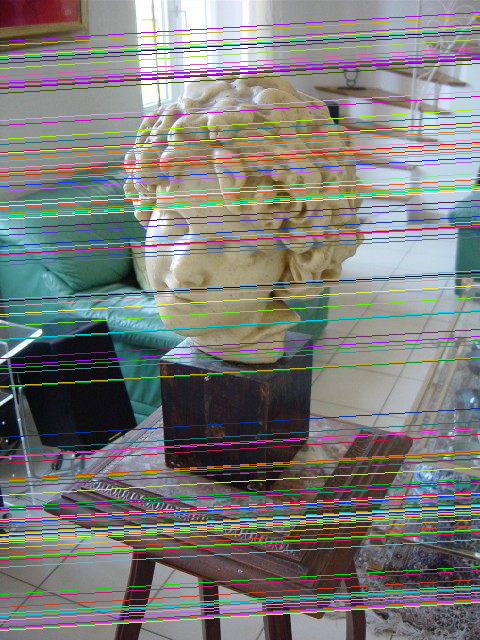
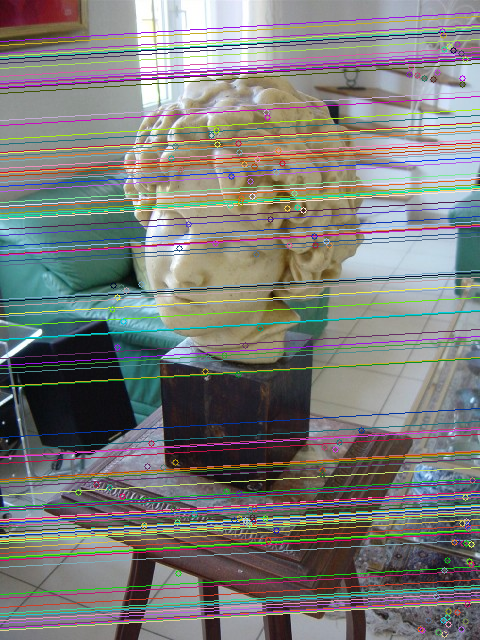
Stable (?)

diff --git a/Stereo Vision/StereoPair.cpp b/Stereo Vision/StereoPair.cpp
@@ -41,13 +41,13 @@ namespace sv {
         Mat status;
         mF = findFundamentalMat(l->matchedPoints(), r->matchedPoints(), cv::FM_RANSAC, 3, 0.99, status);
 
-        l->drawEpipolarLines(mF, palette);
+        l->drawEpipolarLines(mF, LEFT, palette);
         l->drawMatchedPoints(palette, l->epipolarImg());
         imwrite(resPath + "epi-L.png", l->epipolarImg());
 
-        r->drawEpipolarLines(mF, palette);
+        r->drawEpipolarLines(mF, RIGHT, palette);
         r->drawMatchedPoints(palette, r->epipolarImg());
-        imwrite(resPath + "epi-L.png", r->epipolarImg());
+        imwrite(resPath + "epi-R.png", r->epipolarImg());
 
 /*
         Mat E = r->intrinsicMat().t() * mFundamentalMat * l->intrinsicMat();
@@ -99,16 +99,16 @@ namespace sv {
             return pt;
         };
 
+
         Mat T1, T2;
         Size sizeL, sizeR;
-
 
         transformQuad(V, H1, T1, sizeL);
         transformQuad(V, H2, T2, sizeR);
 
         warpPerspective(l->epipolarImg(), l->rectifiedImg(), T1, sizeL);
         warpPerspective(r->epipolarImg(), r->rectifiedImg(), T2, sizeR);
-
+/*
         Point2f curPoint;
         for (int i = 0; i < l->matchedPoints().size(); ++i) {
             curPoint.x = 0, curPoint.y = l->matchedPoints()[i].y;
@@ -120,9 +120,9 @@ namespace sv {
             transformPoint(T2, r->matchedPoints()[i]);
             mSparseDisparity.push_back((l->matchedPoints()[i].x - offsetlX) - (r->matchedPoints()[i].x - offsetrX));
         }
-
-        l->drawMatchedPoints(palette, l->rectifiedImg());
-        r->drawMatchedPoints(palette, r->rectifiedImg());
+*/
+        //l->drawMatchedPoints(palette, l->rectifiedImg());
+        //r->drawMatchedPoints(palette, r->rectifiedImg());
 
         imwrite(resPath + "rectify-L.png", l->rectifiedImg());
         imwrite(resPath + "rectify-R.png", r->rectifiedImg());

diff --git a/Stereo Vision/StereoView.cpp b/Stereo Vision/StereoView.cpp
@@ -9,10 +9,10 @@ namespace sv {
     /* Can't convert from derived class to base class. */
     /* Have to explicitly copy contents */
     StereoView::StereoView(MonoView *monoView) {
-        monoView->img().copyTo(this->img());
-        monoView->img().copyTo(this->mEpiImg);
-        monoView->intrinsicMat().copyTo(this->intrinsicMat());
-        monoView->descriptor().copyTo(this->descriptor());
+        this->img() = monoView->img();
+        this->mEpiImg = monoView->img();
+        this->intrinsicMat() = monoView->intrinsicMat();
+        this->descriptor() = monoView->descriptor();
         this->featurePoints() = monoView->featurePoints();
     }
 
@@ -20,8 +20,8 @@ namespace sv {
         mMatchedPoints.push_back(featurePoints()[index].pt);
     }
 
-    void StereoView::drawEpipolarLines(cv::Mat &F, std::vector<cv::Scalar>& palette) {
-        computeCorrespondEpilines(mMatchedPoints, 1, F, mEpiLines);
+    void StereoView::drawEpipolarLines(cv::Mat &F, int i, std::vector<cv::Scalar>& palette) {
+        computeCorrespondEpilines(mMatchedPoints, i, F, mEpiLines);
         for (int i = 0; i < mEpiLines.size(); ++i) {
             cv::Point3f *pt = &mEpiLines[i];
             line(mEpiImg,

diff --git a/Stereo Vision/StereoView.h b/Stereo Vision/StereoView.h
@@ -23,7 +23,7 @@ namespace sv {
         StereoView(MonoView *);
 
         void pushMatchedPoint(int index);
-        void drawEpipolarLines(cv::Mat &, std::vector<cv::Scalar>&);
+        void drawEpipolarLines(cv::Mat &, int , std::vector<cv::Scalar>&);
         void drawMatchedPoints(std::vector<cv::Scalar>&, cv::Mat &img);
 
         cv::Mat &epipolarImg() {
@@ -32,6 +32,7 @@ namespace sv {
         cv::Mat &rectifiedImg() {
             return mRectified;
         }
+
         std::vector<cv::Point2f>& matchedPoints() {
             return mMatchedPoints;
         }

diff --git a/Stereo Vision/StereoPair.h b/Stereo Vision/StereoPair.h
@@ -25,6 +25,8 @@ namespace sv {
         std::vector<int> mSparseDisparity;
 
     public:
+        const static int LEFT = 1;
+        const static int RIGHT = 2;
         StereoPair(MonoView *left, MonoView *right) {
             l = new StereoView(left);
             r = new StereoView(right);

diff --git a/Stereo Vision/main.cpp b/Stereo Vision/main.cpp
@@ -35,7 +35,7 @@ int main() {
     pair.matchFeaturePoints();
     pair.restoreMotion();
     pair.rectify();
-    pair.disparity();
+    //pair.disparity();
 #endif
 
 #ifdef GL
